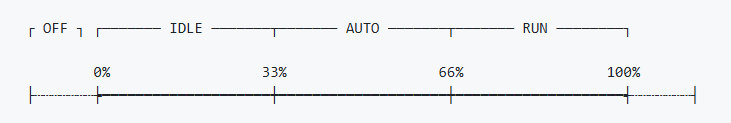
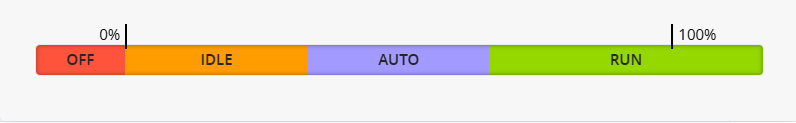
Gov stuff

Changed region(s): [[0.0301, 0.1707, 0.9631, 0.6341], [0.0301, 0.7073, 0.9631, 0.8293], [0.0, 0.9756, 1.0, 1.0]]

diff --git a/sidebars.ts b/sidebars.ts
@@ -112,8 +112,20 @@ const sidebars: SidebarsConfig = {
         "setup/setup-servos",
         "setup/setup-mixer",
         "setup/rpm-measurement",
-        "setup/governor-setup",
-        "setup/governor-flyrotor-setup",
+        "configurator/tabs/governor",
+
+        {
+          type: "category",
+          label: "Governor Setup",
+          collapsed: true,
+          link: { type: "doc", id: "setup/governor/governor-setup" },
+          items: [
+            "setup/governor/governor-electric",
+            "setup/governor/governor-nitro",
+            "setup/governor/governor-bypass",
+            "setup/governor/governor-flyrotor-setup",
+          ],
+        },
         "setup/rpm-filters",
         "setup/esc-telemetry",
         "setup/esc-forward-programming",
@@ -145,6 +157,7 @@ const sidebars: SidebarsConfig = {
         "configurator/tabs/failsafe",
         "configurator/tabs/power",
         "configurator/tabs/motors",
+        "configurator/tabs/governor",
         "configurator/tabs/servos",
         "configurator/tabs/mixer",
         "configurator/tabs/gyro",